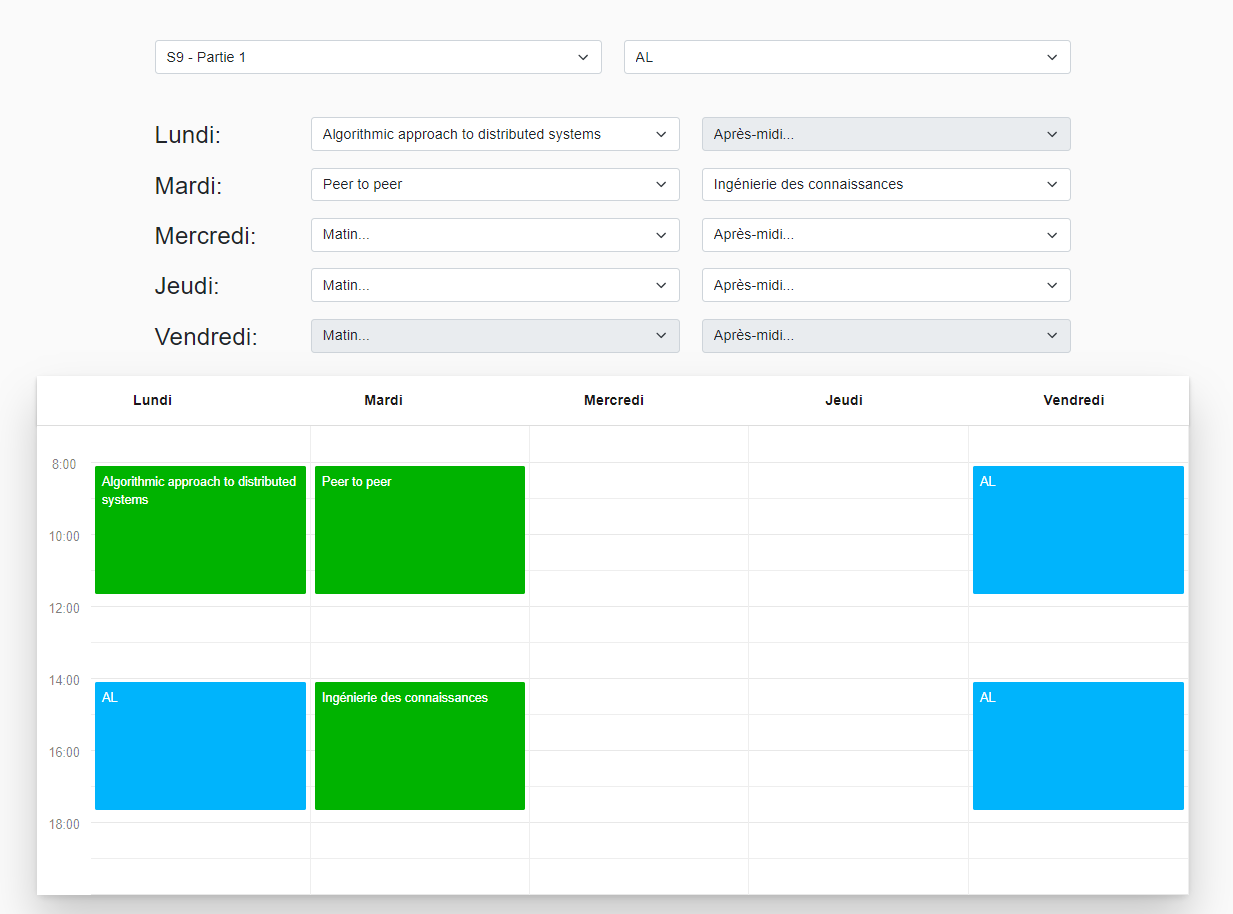
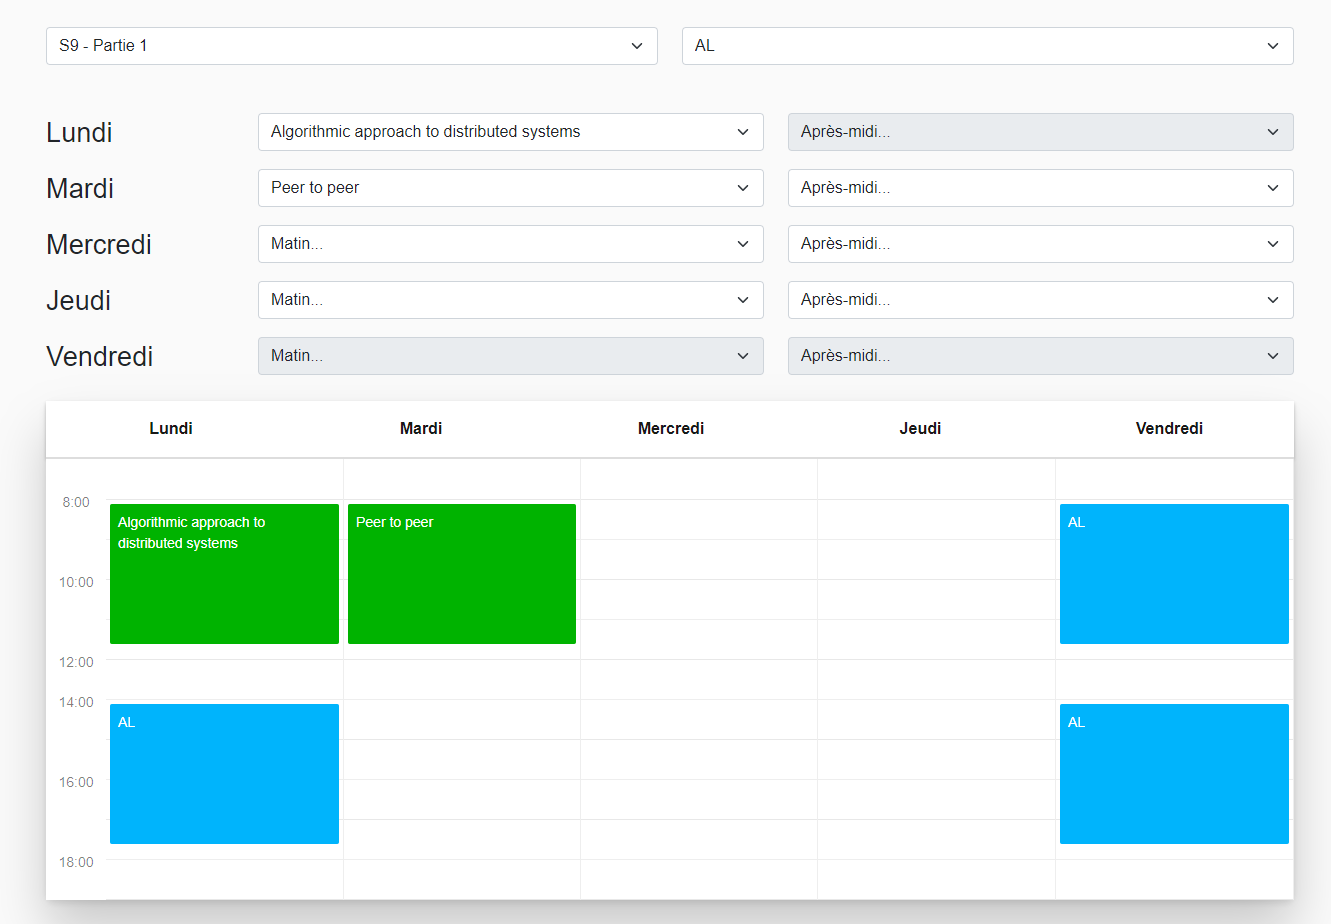
clean code

diff --git a/resources/js/data.js b/resources/js/data.js
@@ -1,2 +1,2 @@
-let mineurs_data = '{"1":[{"name":"AL","schedule":[0,1,0,0,0,0,0,0,1,1]},{"name":"CASPAR","schedule":[0,1,1,0,0,0,1,0,0,1]},{"name":"IoTCPS","schedule":[0,0,1,1,1,0,0,0,0,0]},{"name":"IHM","schedule":[1,1,0,0,0,0,0,0,1,0]},{"name":"SD","schedule":[1,1,0,0,0,0,1,0,0,1]},{"name":"Ubinet","schedule":[1,1,0,1,0,0,0,0,1,1]},{"name":"WIA","schedule":[0,0,1,1,0,0,0,0,0,0]}],"2":[{"name":"AL","schedule":[0,0,0,0,1,1,0,0,1,0]},{"name":"CASPAR","schedule":[0,1,0,0,0,1,0,0,0,0]},{"name":"IoTCPS","schedule":[0,0,1,1,1,0,0,0,0,0]},{"name":"IHM","schedule":[1,0,0,0,0,0,0,0,1,1]},{"name":"SD","schedule":[0,1,0,0,0,0,0,0,1,0]},{"name":"Ubinet","schedule":[1,0,0,0,0,0,0,0,0,0]},{"name":"WIA","schedule":[0,1,1,1,0,0,1,0,0,0]}]}';
+let minors_data = '{"1":[{"name":"AL","schedule":[0,1,0,0,0,0,0,0,1,1]},{"name":"CASPAR","schedule":[0,1,1,0,0,0,1,0,0,1]},{"name":"IoTCPS","schedule":[0,0,1,1,1,0,0,0,0,0]},{"name":"IHM","schedule":[1,1,0,0,0,0,0,0,1,0]},{"name":"SD","schedule":[1,1,0,0,0,0,1,0,0,1]},{"name":"Ubinet","schedule":[1,1,0,1,0,0,0,0,1,1]},{"name":"WIA","schedule":[0,0,1,1,0,0,0,0,0,0]}],"2":[{"name":"AL","schedule":[0,0,0,0,1,1,0,0,1,0]},{"name":"CASPAR","schedule":[0,1,0,0,0,1,0,0,0,0]},{"name":"IoTCPS","schedule":[0,0,1,1,1,0,0,0,0,0]},{"name":"IHM","schedule":[1,0,0,0,0,0,0,0,1,1]},{"name":"SD","schedule":[0,1,0,0,0,0,0,0,1,0]},{"name":"Ubinet","schedule":[1,0,0,0,0,0,0,0,0,0]},{"name":"WIA","schedule":[0,1,1,1,0,0,1,0,0,0]}]}';
 let options_data = '{"1":[{"name":"Algorithmic approach to distributed systems","schedule":[1,0,0,0,0,0,0,0,0,0]},{"name":"Conception et évaluation des IHM 1","schedule":[1,0,0,0,0,0,0,0,0,0]},{"name":"Big Data Technologies","schedule":[1,0,0,0,0,0,0,0,0,0]},{"name":"Techniques d\'interaction et multimodalité","schedule":[0,1,0,0,0,0,0,0,0,0]},{"name":"Applied Artificial Intelligence","schedule":[0,1,0,0,0,0,0,0,0,0]},{"name":"Cryptographie et Sécurité","schedule":[0,1,0,0,0,0,0,0,0,0]},{"name":"SOA: Intégration de services","schedule":[0,1,0,0,0,0,0,0,0,0]},{"name":"Graphs Algorithms and combinatorial optimization","schedule":[0,1,0,0,0,0,0,0,0,0]},{"name":"Model-Based Design for Cyber-Physical Systems and the Internet of Things","schedule":[0,0,1,0,0,0,0,0,0,0]},{"name":"Peer to peer","schedule":[0,0,1,0,0,0,0,0,0,0]},{"name":"Systèmes Intelligents Autonomes","schedule":[0,0,1,0,0,0,0,0,0,0]},{"name":"Web de données","schedule":[0,0,1,0,0,0,0,0,0,0]},{"name":"Ingénierie des connaissances","schedule":[0,0,0,1,0,0,0,0,0,0]},{"name":"Conception et Développement de Systèmes Cyber-Physiques 1","schedule":[0,0,0,1,0,0,0,0,0,0]},{"name":"Machine Learning: Theory and Algorithms","schedule":[0,0,0,1,0,0,0,0,0,0]},{"name":"Administration Réseau","schedule":[0,0,0,1,0,0,0,0,0,0]},{"name":"Techniques Modernes de programmation concurrente","schedule":[0,0,0,1,0,0,0,0,0,0]},{"name":"Interagir dans un monde 3D","schedule":[0,0,0,0,1,0,0,0,0,0]},{"name":"Multimedia Networking","schedule":[0,0,0,0,1,0,0,0,0,0]},{"name":"Environnement logiciels pour dispositifs mobiles 1","schedule":[0,0,0,0,1,0,0,0,0,0]},{"name":"Introduction to Security","schedule":[0,0,0,0,1,0,0,0,0,0]},{"name":"Techniques d\'expression (masters seulement)","schedule":[0,0,0,0,0,1,0,0,0,0]},{"name":"FLE (Ubinet seulement)","schedule":[0,0,0,0,0,1,0,0,0,0]},{"name":"Machine Learning for Image Analysis","schedule":[0,0,0,0,0,0,1,0,0,0]},{"name":"Sécurité des applications web","schedule":[0,0,0,0,0,0,1,0,0,0]},{"name":"Mineure DS4H","schedule":[0,0,0,0,0,0,1,0,0,0]},{"name":"Management & Ethique (ingénieurs seulement)","schedule":[0,0,0,0,0,0,0,1,0,0]},{"name":"Interfaces Tactiles","schedule":[0,0,0,0,0,0,0,0,1,0]},{"name":"Architectures Logicielles 1","schedule":[0,0,0,0,0,0,0,0,1,0]},{"name":"Evolving Internet","schedule":[0,0,0,0,0,0,0,0,1,0]},{"name":"Data Science","schedule":[0,0,0,0,0,0,0,0,0,1]},{"name":"Cybersecurite","schedule":[0,0,0,0,0,0,0,0,0,1]},{"name":"Architecture logicielle pour le cloud computing","schedule":[0,0,0,0,0,0,0,0,0,1]},{"name":"Large Scale Distributed Systems","schedule":[0,0,0,0,0,0,0,0,0,1]}],"2":[{"name":"Conception et évaluation des IHM 2","schedule":[1,0,0,0,0,0,0,0,0,0]},{"name":"Virtualized infrastructure in cloud computing","schedule":[1,0,0,0,0,0,0,0,0,0]},{"name":"Méta-programmation et sémantique comportementale","schedule":[0,1,0,0,0,0,0,0,0,0]},{"name":"Advanced Topics in Deep Learning","schedule":[0,1,0,0,0,0,0,0,0,0]},{"name":"Programmable web - server-side","schedule":[0,1,0,0,0,0,0,0,0,0]},{"name":"Sécurité dans les réseaux","schedule":[0,1,0,0,0,0,0,0,0,0]},{"name":"Algorithms for telecommunication networks","schedule":[0,1,0,0,0,0,0,0,0,0]},{"name":"Data Mining","schedule":[0,0,1,0,0,0,0,0,0,0]},{"name":"Full-Stack Software Engineering for IoT","schedule":[0,0,1,0,0,0,0,0,0,0]},{"name":"Preuves en Cryptographie","schedule":[0,0,1,0,0,0,0,0,0,0]},{"name":"Conception et Développement de Systèmes Cyber-Physiques 2","schedule":[0,0,0,1,0,0,0,0,0,0]},{"name":"Web sémantique","schedule":[0,0,0,1,0,0,0,0,0,0]},{"name":"From Shallow to Deep Learning for Multimedia Data","schedule":[0,0,0,0,1,0,0,0,0,0]},{"name":"Performance Evaluation of Networks ","schedule":[0,0,0,0,1,0,0,0,0,0]},{"name":"Environnement logiciels pour dispositifs mobiles 2","schedule":[0,0,0,0,1,0,0,0,0,0]},{"name":"Ingénierie des modèles et langages spécifiques aux domaines","schedule":[0,0,0,0,1,0,0,0,0,0]},{"name":"Rétro-ingénierie, Maintenance et Evolution des Logiciels","schedule":[0,0,0,0,0,1,0,0,0,0]},{"name":"Security and Privacy 3.0","schedule":[0,0,0,0,0,1,0,0,0,0]},{"name":"Blockchain and Privacy","schedule":[0,0,0,0,0,0,1,0,0,0]},{"name":"Systèmes et Logiciels Embarqués Avancés","schedule":[0,0,0,0,0,0,1,0,0,0]},{"name":"Programmable web - client-side","schedule":[0,0,0,0,0,0,1,0,0,0]},{"name":"Data Mining for Networks","schedule":[0,0,0,0,0,0,0,1,0,0]},{"name":"Architectures Logicielles 2","schedule":[0,0,0,0,0,0,0,0,1,0]},{"name":"Distributed Data Management","schedule":[0,0,0,0,0,0,0,0,1,0]},{"name":"Adaptation des Interfaces à l\'environnement","schedule":[0,0,0,0,0,0,0,0,1,0]},{"name":"Internet Measurements and New Architectures","schedule":[0,0,0,0,0,0,0,0,1,0]},{"name":"Réalité virtuelle","schedule":[0,0,0,0,0,0,0,0,0,1]},{"name":"Modélisation et conception de systèmes embarqués","schedule":[0,0,0,0,0,0,0,0,0,1]},{"name":"Interfaces réparties sur plusieurs supports","schedule":[0,0,0,0,0,0,0,0,0,1]}]}';

diff --git a/resources/js/index.js b/resources/js/index.js
@@ -3,62 +3,65 @@
 
   let nbDay = 5;
   let nbSlotPerDay = 2;
-  let mineurs, options;
+  let minors, options;
 
   $(document).ready(function() {
 
-    loadPartie(1);
+    loadPart(1);
 
-    //Choosing partie
-    $('#select-partie').change(function() {
-      loadPartie($(this).val());
+    //Choosing part
+    $('#select-part').change(function() {
+      loadPart($(this).val());
     });
 
-    //Choosing mineur
-    $('#select-mineur').change(function() {
-      $('.mineur').remove();
+    //Choosing minor
+    $('#select-minor').change(function() {
+      $('.minor').remove();
       $('.select-option').removeAttr('disabled');
-      if (this.value != '') loadCourse(this.value, 'mineur', mineurs[this.value]);
+      if (this.value != '') addCourse(this.value, 'minor', minors[this.value]);
     });
 
     //Choosing option
     $('.select-option').change(function() {
       let slot = $(this).data('slot');
       removeOptionSlot(slot);
-      if (this.value != '') loadCourse(this.value, 'option', options[this.value]);
+      if (this.value != '') addCourse(this.value, 'option', options[this.value]);
     });
   });
 
   /*
-  * Loading partie
+  * Loading part
   */
-  function loadPartie(index) {
-    let choosed_mineur = $('#select-mineur').val();
-    $('#select-mineur > option:not(:first-child)').remove();
+  function loadPart(index) {
+    //reseting infos
+    let choosed_minor = $('#select-minor').val();
+    $('#select-minor > option:not(:first-child)').remove();
     $('.select-option > option:not(:first-child)').remove();
     $('.select-option').removeAttr('disabled');
     $('.event').remove();
 
-    let partie = index;
-    mineurs = $.parseJSON(mineurs_data)[partie];
-    loadMineurSelect(mineurs);
-    options = $.parseJSON(options_data)[partie];
+    //Loading minors and options
+    let part = index;
+    minors = $.parseJSON(minors_data)[part];
+    loadMinorSelect(minors);
+    options = $.parseJSON(options_data)[part];
     loadOptionSelect(options);
 
-    $('#select-mineur').val(choosed_mineur).change();
+    //Keep choosed minor
+    $('#select-minor').val(choosed_minor).change();
   }
 
   /*
-  * Loading mineur select
+  * Loading minor select
   */
-  function loadMineurSelect(mineurs) {
-    mineurs.forEach((mineur, index) => {
-      $('#select-mineur').append('<option value="' + index + '">' + mineur.name + '</option>');
+  function loadMinorSelect(minors) {
+    minors.forEach((minor, index) => {
+      $('#select-minor').append('<option value="' + index + '">' + minor.name + '</option>');
     });
   }
 
   /*
-  * Loading mineur select
+  * Loading options selects
   */
   function loadOptionSelect(options) {
     let slot = 0;
@@ -71,34 +74,20 @@
   /*
   * Load a course
   */
-  function loadCourse(index, type, course) {
+  function addCourse(index, type, course) {
     for (let i = 0; i < nbDay * nbSlotPerDay; i++) {
       if (course.schedule[i]) {
-        addSlot(index, i, type, course.name);
+        addCourseSlot(index, i, type, course.name);
       }
     }
   }
 
   /*
-  * Unload a course
-  */
-  function removeOptionSlot(slot) {
-    $('td[slot="' + slot + '"] > .option').remove();
-  }
-
-  /*
-  * Unload a course
-  */
-  function unloadCourse(index, type) {
-    $('.' + type + '-' + index).remove();
-  }
-
-  /*
   * Add a course slot
   */
-  function addSlot(index, slot, type, name) {
+  function addCourseSlot(index, slot, type, name) {
     $('td[slot="' + slot + '"]').append('<div class="event cours ' + type + ' ' + type + '-' + index + '">' + name + '</div>');
-    if (type == 'mineur') {
+    if (type == 'minor') {
       $('.select-option[data-slot="' + slot + '"]').each(function() {
         let select = $(this);
         if (select.val() != '') {
@@ -108,5 +97,12 @@
         select.attr('disabled', 'disabled')
       });
     }
+  }
+
+  /*
+  * Remove a course
+  */
+  function removeOptionSlot(slot) {
+    $('td[slot="' + slot + '"] > .option').remove();
   }
 })();

diff --git a/index.html b/index.html
@@ -21,23 +21,23 @@
 </head>
 
 <body>
-  <div class="mb-2 w-50">
+  <div class="user-options mb-2">
     <div class="row justify-content-md-center mb-5">
       <div class="col-md-6">
-        <select id="select-partie" class="form-select">
+        <select id="select-part" class="form-select">
           <option selected value="1">S9 - Partie 1</option>
           <option value="2">S9 - Partie 2</option>
         </select>
       </div>
       <div class="col-md-6">
-        <select id="select-mineur" class="form-select">
+        <select id="select-minor" class="form-select">
           <option selected value>Choisissez votre mineur...</option>
         </select>
       </div>
     </div>
     <div class="row justify-content-md-center">
       <div class="col-md-2">
-        <p class="day">Lundi:</p>
+        <p class="day">Lundi</p>
       </div>
       <div class="col-md-5">
         <select class="select-option form-select" data-slot="0">
@@ -52,7 +52,7 @@
     </div>
     <div class="row justify-content-md-center">
       <div class="col-md-2">
-        <p class="day">Mardi:</p>
+        <p class="day">Mardi</p>
       </div>
       <div class="col-md-5">
         <select class="select-option form-select" data-slot="2">
@@ -67,7 +67,7 @@
     </div>
     <div class="row justify-content-md-center">
       <div class="col-md-2">
-        <p class="day">Mercredi:</p>
+        <p class="day">Mercredi</p>
       </div>
       <div class="col-md-5">
         <select class="select-option form-select" data-slot="4">
@@ -82,7 +82,7 @@
     </div>
     <div class="row justify-content-md-center">
       <div class="col-md-2">
-        <p class="day">Jeudi:</p>
+        <p class="day">Jeudi</p>
       </div>
       <div class="col-md-5">
         <select class="select-option form-select" data-slot="6">
@@ -97,7 +97,7 @@
     </div>
     <div class="row justify-content-md-center">
       <div class="col-md-2">
-        <p class="day">Vendredi:</p>
+        <p class="day">Vendredi</p>
       </div>
       <div class="col-md-5">
         <select class="select-option form-select" data-slot="8">
@@ -176,14 +176,6 @@
               <td></td>
             </tr>
             <tr>
-              <td class="headcol"></td>
-              <td></td>
-              <td></td>
-              <td></td>
-              <td></td>
-              <td></td>
-            </tr>
-            <tr>
               <td class="headcol">14:00</td>
               <td slot="1"></td>
               <td slot="3"></td>
@@ -217,14 +209,6 @@
             </tr>
             <tr>
               <td class="headcol">18:00</td>
-              <td></td>
-              <td></td>
-              <td></td>
-              <td></td>
-              <td></td>
-            </tr>
-            <tr>
-              <td class="headcol"></td>
               <td></td>
               <td></td>
               <td></td>

diff --git a/resources/css/index.css b/resources/css/index.css
@@ -1,30 +1,32 @@
+/* MAIN */
+
 body {
   flex-direction: column;
   display: flex;
   align-items: center;
   align-content: center;
   font-family: "DINPro", "Helvetica Neue", sans-serif;
-  padding: 3rem;
+  padding: 3vh;
   margin: 0;
   background: #fafafa;
   box-sizing: border-box;
-  height: 100vh;
 }
 
-.outer {
-  position:relative;
+.user-options {
+  width: 65vw;
 }
+
+/* CALANDAR */
 
 .calendar {
   margin: 0 auto;
-  max-width: 1280px;
-  min-width: 500px;
-
+  width: 65vw;
   box-shadow: 0px 30px 50px rgba(0, 0, 0, 0.2) ,0px 3px 7px rgba(0, 0, 0, 0.1);
   border-radius: 8px;
 }
+
 thead {
-    box-shadow: 0px 2px 3px rgba(0, 0, 0, 0.2);
+  box-shadow: 0px 2px 3px rgba(0, 0, 0, 0.2);
 }
 
 thead th {
@@ -46,9 +48,9 @@ header {
 }
 
 header h1 {
- font-size: 1.25rem;
- text-align: center;
- font-weight: normal;
+  font-size: 1.25rem;
+  text-align: center;
+  font-weight: normal;
 }
 
 tbody {
@@ -86,17 +88,19 @@ thead th {
 }
 
 thead {
-    z-index: 2;
-    background: white;
-    border-bottom: 2px solid #ddd;
+  z-index: 2;
+  background: white;
+  border-bottom: 2px solid #ddd;
 }
 
 tr, tr td {
   height: 20px;
 }
+
 td {
   text-align: center;
 }
+
 tr:nth-child(odd) td:not(.headcol) {
   border-bottom: 1px solid #e8e8e8;
 }
@@ -120,9 +124,7 @@ tbody tr td {
   width: auto;
 }
 
-.secondary {
-  color: rgba(0, 0, 0, 0.4);
-}
+/* EVENT */
 
 .event {
   color: white;
@@ -133,7 +135,6 @@ tbody tr td {
   padding: 0.5rem;
   overflow-x: hidden;
   transition: all 0.2s;
-  cursor: pointer;
 }
 
 .event:hover {
@@ -145,7 +146,7 @@ tbody tr td {
   height: 400%;
 }
 
-.event.mineur {
+.event.minor {
   background: #00B4FC;
 }
 
